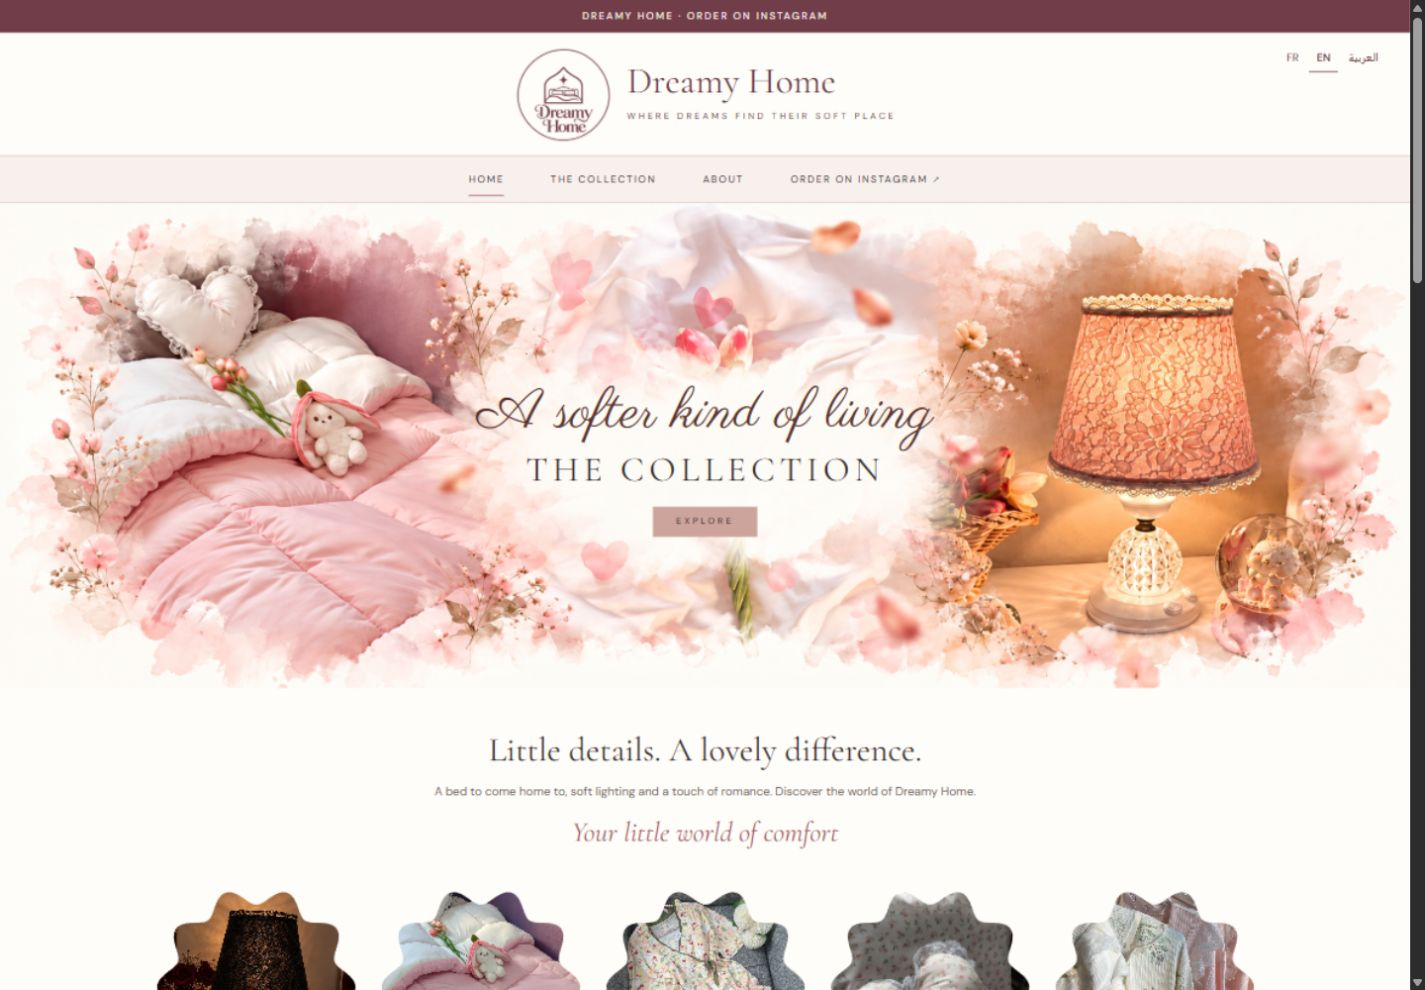
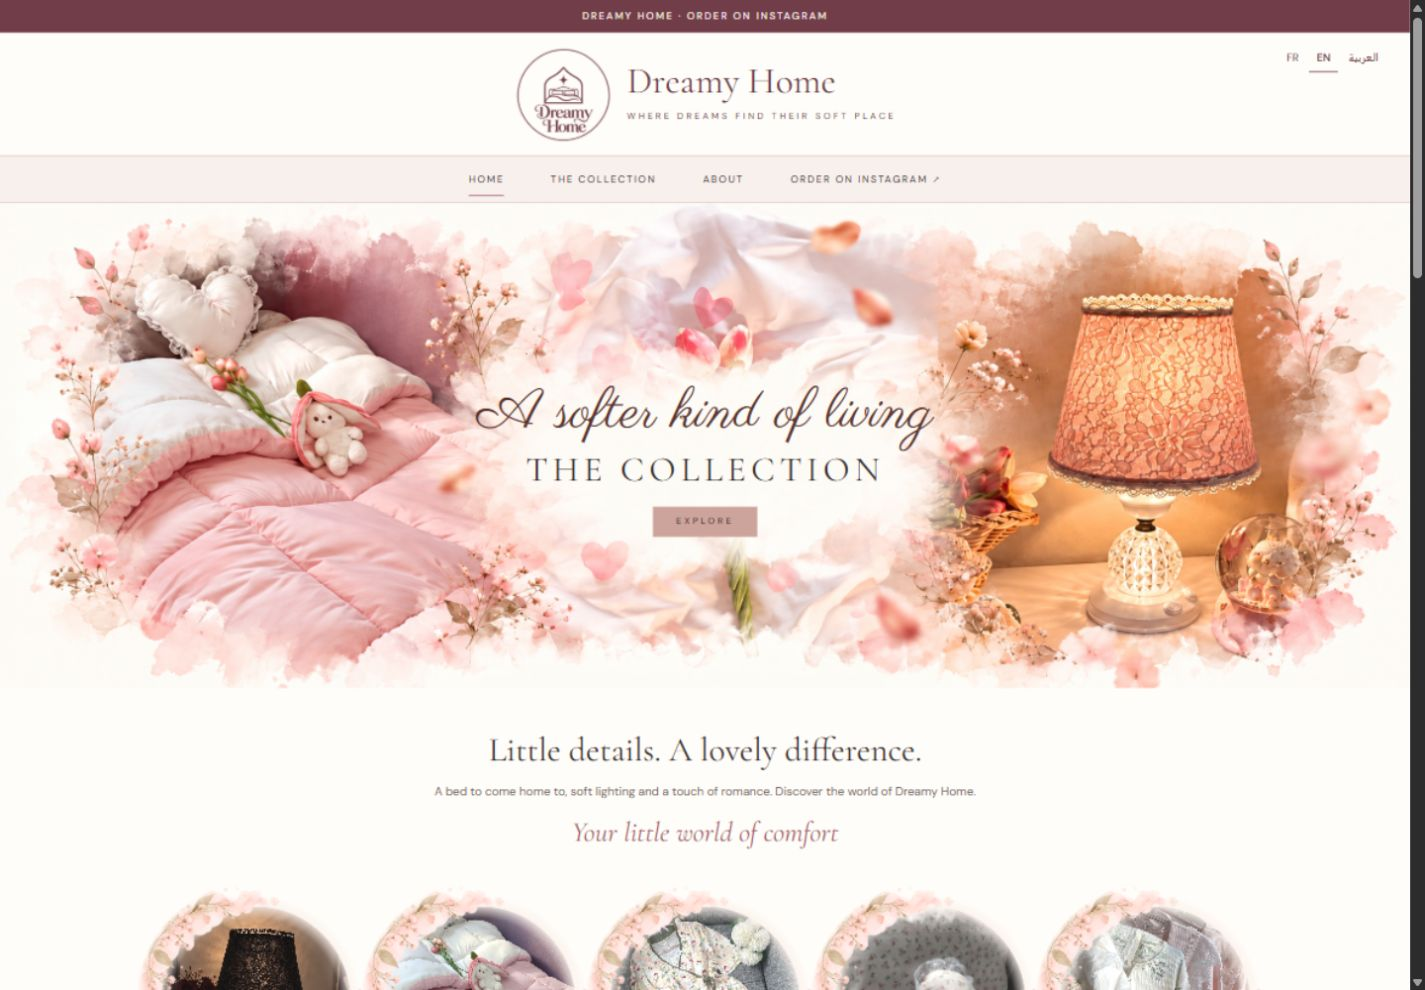
Refresh portfolio with circular floral category previews

Changed region(s): [[0.0926, 0.8788, 0.8954, 1.0], [0.9881, 0.2727, 1.0, 0.303]]

diff --git a/src/lib/portfolio.ts b/src/lib/portfolio.ts
@@ -17,7 +17,7 @@ import cafe from '../assets/portfolio/crumb-and-cup.jpg';
 // Leave these blank until the owner supplies verified contact details.
 export const contact = { whatsapp: '', email: '', instagram: 'https://www.instagram.com/safaawanour/' };
 export const projects = [
- { slug: 'dreamy-home', name: 'Dreamy Home', type: 'Boutique website project', category: 'Home & lifestyle / Boutique', image: dreamyHome, color: 'rose', summary: 'A romantic boutique website in French, English and Arabic for bedding, decorative lamps, sleepwear and home accessories, with orders through Instagram.', demoPath: 'demos/dreamy-home/', stack: ['HTML', 'CSS', 'JavaScript'], sections: [['Context', 'A website prepared for Dreamy Home from its Instagram product photography, the supplied rose-pink logo and a boutique layout reference.'], ['Design', 'Ivory, blush and rose frame product photography, Cormorant Garamond headings and a transparent bedroom emblem. A watercolor hero blends bedding, flowers and a glowing lamp around editable typography. Scalloped floral category portraits and a muted rose logo carry the romantic style throughout. Six collections organise bedside lamps, bedding, sleepwear, décor, dresses and accessories.'], ['Development', 'A responsive landing page, searchable and filterable collection, individual product views and About page, with French, English and right-to-left Arabic versions. The catalogue brings together 49 designs with swipeable galleries pairing product portraits with original styled photos, search, category filters and prices in Algerian dinars. Ordering links lead to Instagram for options, stock and delivery confirmation.'], ['Result', 'A complete static boutique website published as a portfolio preview. No online checkout or payments are collected.']] },
+ { slug: 'dreamy-home', name: 'Dreamy Home', type: 'Boutique website project', category: 'Home & lifestyle / Boutique', image: dreamyHome, color: 'rose', summary: 'A romantic boutique website in French, English and Arabic for bedding, decorative lamps, sleepwear and home accessories, with orders through Instagram.', demoPath: 'demos/dreamy-home/', stack: ['HTML', 'CSS', 'JavaScript'], sections: [['Context', 'A website prepared for Dreamy Home from its Instagram product photography, the supplied rose-pink logo and a boutique layout reference.'], ['Design', 'Ivory, blush and rose frame product photography, Cormorant Garamond headings and a transparent bedroom emblem. A watercolor hero blends bedding, flowers and a glowing lamp around editable typography. Centred circular category photos fade into botanical watercolor frames, paired with rounded blush labels and a muted rose logo. Six collections organise bedside lamps, bedding, sleepwear, décor, dresses and accessories.'], ['Development', 'A responsive landing page, searchable and filterable collection, individual product views and About page, with French, English and right-to-left Arabic versions. The catalogue brings together 49 designs with swipeable galleries pairing product portraits with original styled photos, search, category filters and prices in Algerian dinars. Ordering links lead to Instagram for options, stock and delivery confirmation.'], ['Result', 'A complete static boutique website published as a portfolio preview. No online checkout or payments are collected.']] },
 
  { slug: 'thiziri', name: 'Thiziri', type: 'Personal app & website project', category: 'Faith / Daily adhkar', image: thiziri, color: 'sage', summary: 'A calm home for daily adhkar, with a free, ad-free Android app and a multilingual web reader.', demoPath: 'thiziri/', stack: ['HTML', 'CSS', 'JavaScript', 'Android'], sections: [['Context', 'A personal project bringing daily adhkar into a free, ad-free Android app and a companion website. The landing page introduces Thiziri and gives visitors a direct route to the web reader.'], ['Design', 'A crescent calligraphy logo, soft green tones and generous space establish a quiet visual identity. Arabic text stays central, with English and French meanings and layouts adapted to smaller screens.'], ['Development', 'The companion web reader includes adhkar collections, recitation counters, favourites and controls for language, theme and text size. The website also provides separate web and Android privacy information.']] },
  { slug: 'serenas-sanctuary', name: 'Serena’s Sanctuary', type: 'Client website project', category: 'Wellbeing / Health coaching', image: serena, color: 'rose', summary: 'A warm, faith-rooted health coaching website for Muslim mothers, with a clear path to a free discovery call.', demoPath: 'serenassactuary/', stack: ['HTML', 'CSS', 'JavaScript'], sections: [['Context', 'A client website developed from Serena’s Canva draft, questionnaire, supplied logo, colours and coaching photograph.'], ['Design', 'Cream, blush and pale lavender backgrounds pair with olive accents and Lora serif headings. Personal photography and gentle, readable layouts centre Serena’s voice. The homepage introduces her approach, packages and FAQs, with a separate About page and direct Carepatron booking links. Mobile visitors have a floating booking button beside back-to-top. The existing client logo is retained; the newsletter currently uses an email request.']] },
@@ -149,6 +149,7 @@ export const projects = [
     ],
   },
 ];
+
 
 
 

diff --git a/src/lib/project-captures.ts b/src/lib/project-captures.ts
@@ -5,7 +5,7 @@ const images = import.meta.glob<{ default: ImageMetadata }>(
 );
 
 const pages: Record<string, [string, string][]> = {
- 'dreamy-home': [['home','Homepage'], ['collection','The collection'], ['about','About Dreamy Home']],
+ 'dreamy-home': [['home','Homepage'], ['categories','Floral category portraits'], ['collection','The collection'], ['about','About Dreamy Home']],
   thiziri: [['home', 'App landing page'], ['reader', 'Daily adhkar reader']],
  'serenas-sanctuary': [['home','Homepage'], ['about','Meet Serena'], ['disclaimer','Disclaimer']],
  'the-table-restaurant': [['home','Menu book cover'], ['welcome','Welcome spread'], ['menu','Restaurant menu']],
@@ -32,4 +32,5 @@ export function getProjectCaptures(slug: string) {
     return { page, label, laptop: shot('laptop'), phone: shot('phone') };
   });
 }
+
 
